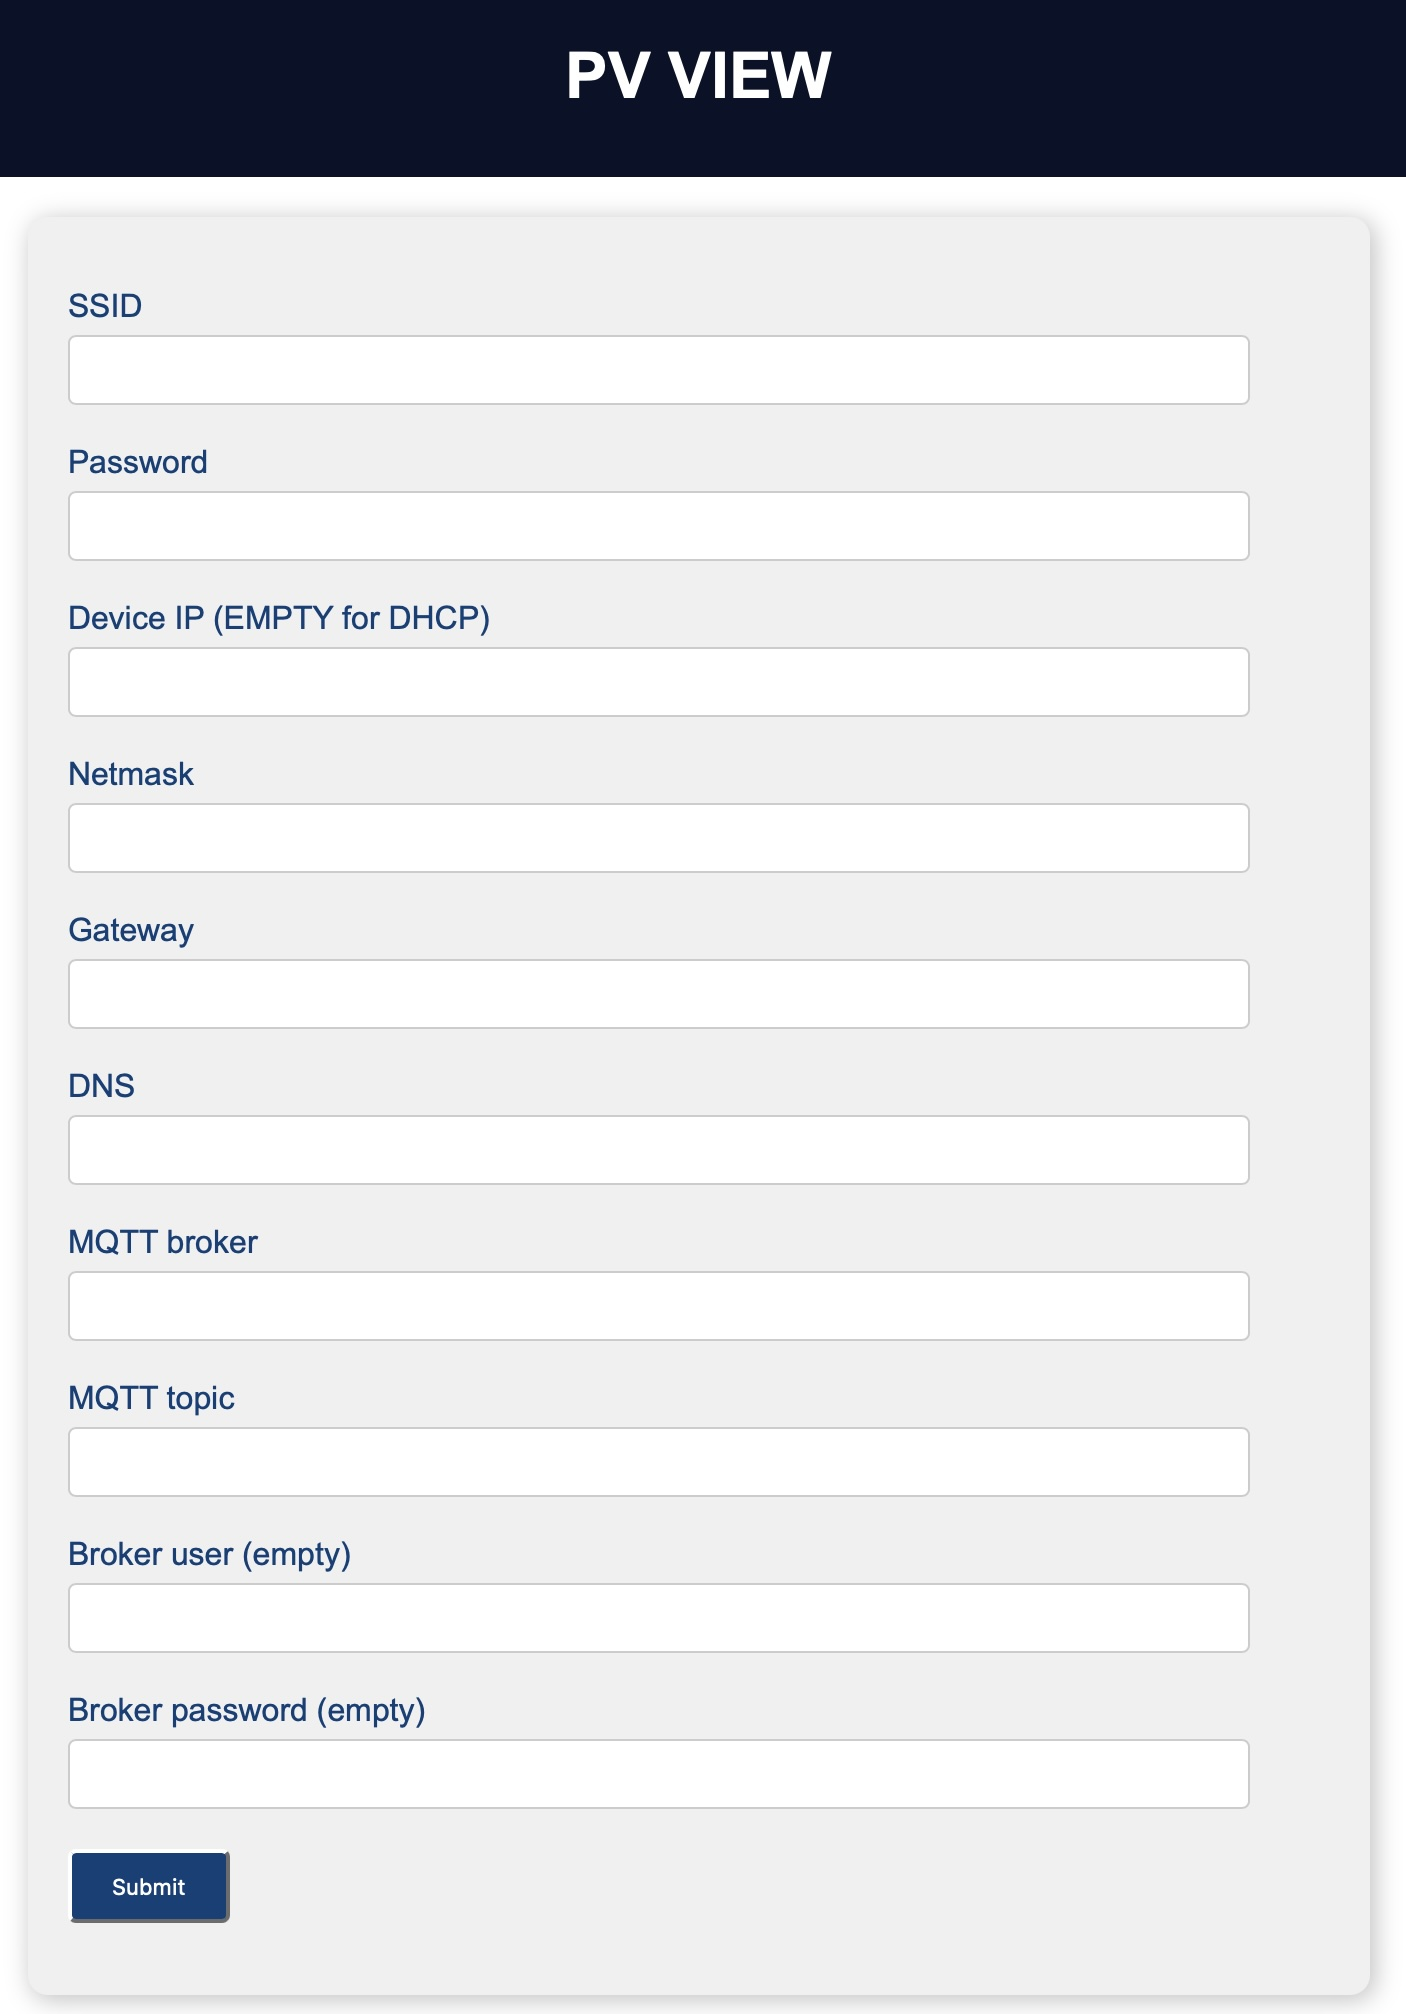
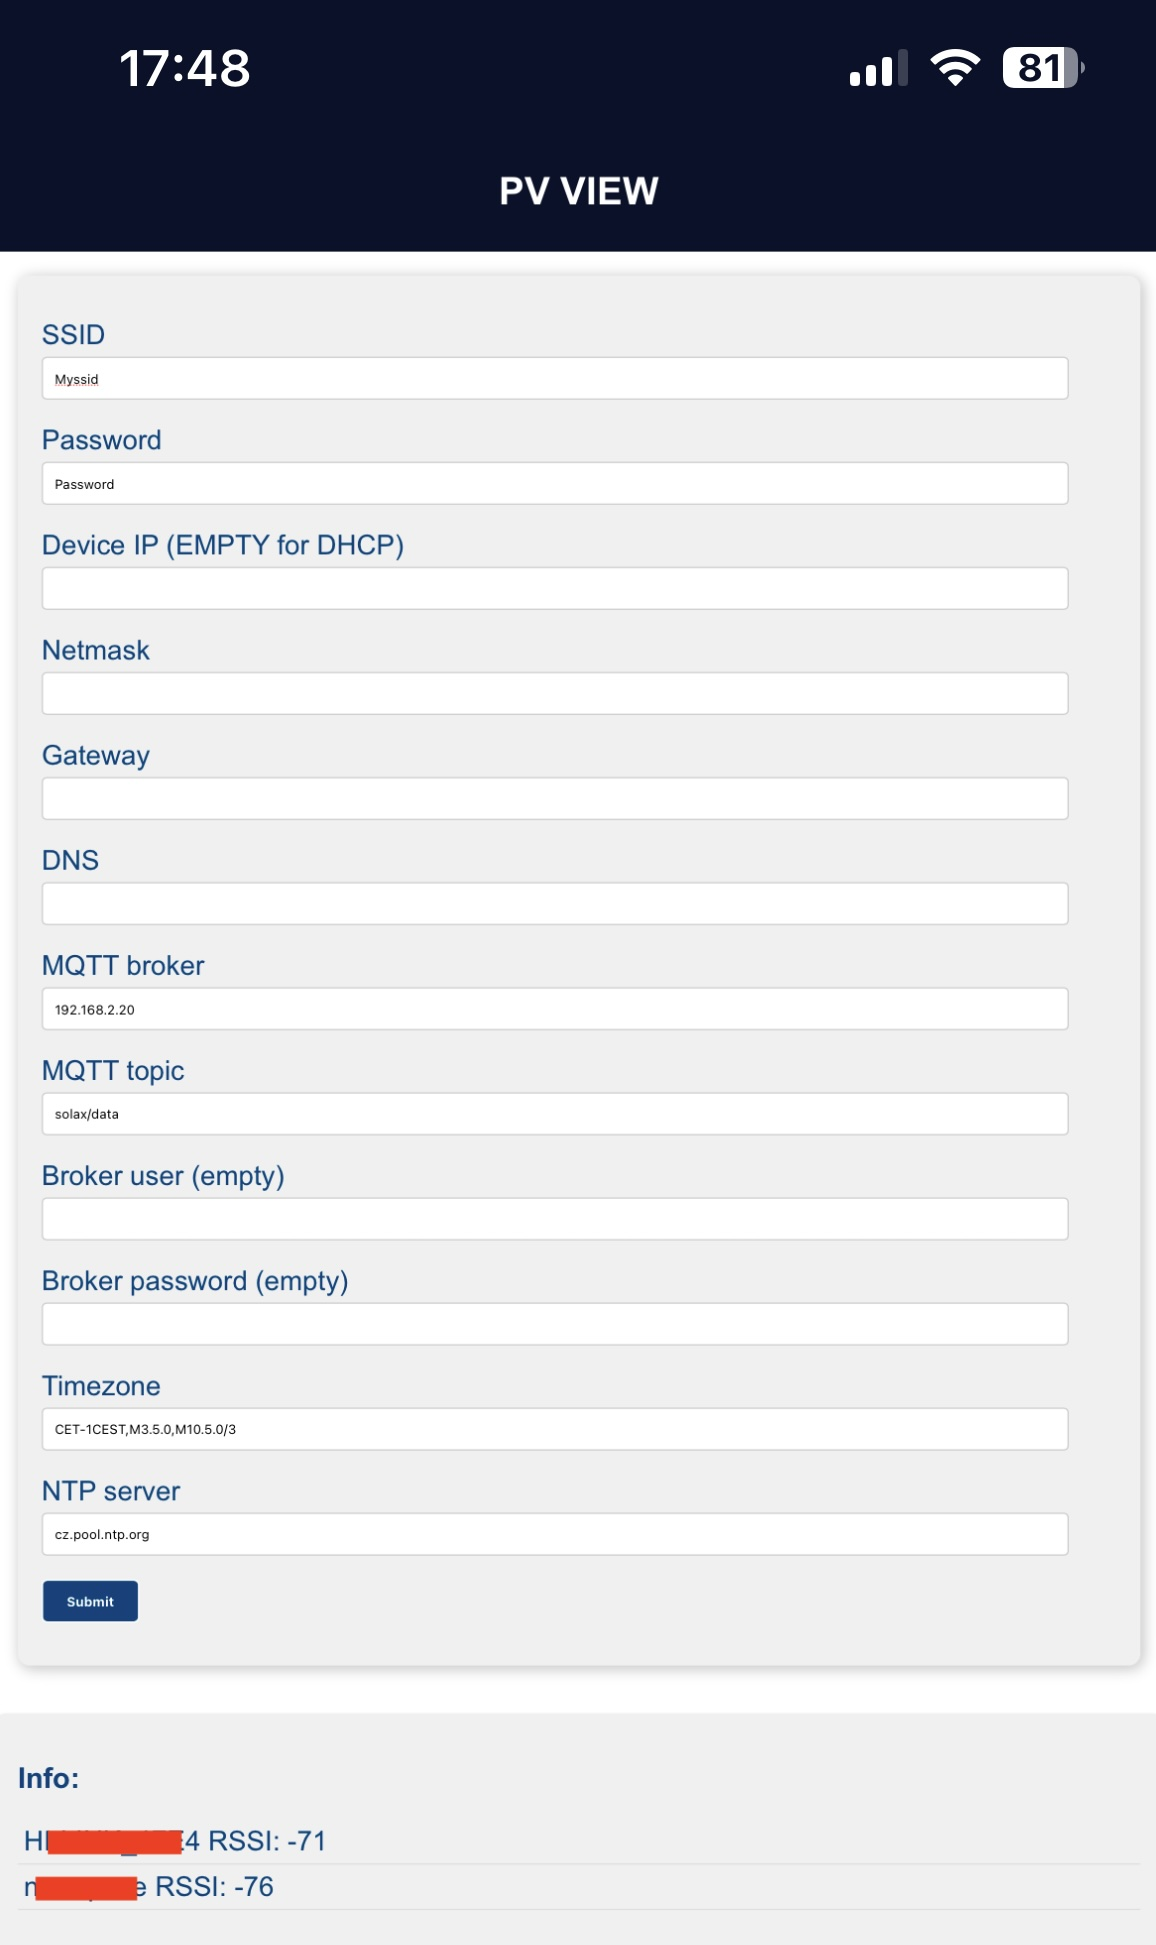
fixed snmp & timezone

diff --git a/main/time_task.cpp b/main/time_task.cpp
@@ -28,19 +28,27 @@ TimeTask::~TimeTask()
   done();
 }
 
+
 void TimeTask::initializeSNTP()
 {
+  KeyVal &kv = KeyVal::getInstance();
+	_timeserver = kv.readString(literals::kv_timeserver, literals::kv_def_timeserver);
+
   sntp_setoperatingmode(SNTP_OPMODE_POLL);
-  sntp_setservername(0, "cz.pool.ntp.org"); 
+  sntp_setservername(0,  _timeserver.c_str()); 
   sntp_init();
-  ESP_LOGI(LOG_TAG, "SNTP initialized. Time synchronization started.");
+  ESP_LOGI(LOG_TAG, "SNTP initialized. Time synchronization started. [%s]", _timeserver.c_str());
 }
 
-void TimeTask::updateTimeZone()
+void TimeTask::updateTimeZone(const char* tmz)
 { 
-  setenv("TZ", "CET-1CEST,M3.5.0,M10.5.0/3", 1);
-  tzset();
-  ESP_LOGI(LOG_TAG, "Time zone set to CET with daylight saving.");
+  if (tmz) {
+    setenv("TZ", tmz, 1);
+    tzset();
+    ESP_LOGI(LOG_TAG, "Time zone set to CET with daylight saving. [%s]", tmz);
+  } else {
+    ESP_LOGE(LOG_TAG, "Time zone - null");
+  }
 }
 
 bool  TimeTask::syncTime()
@@ -62,8 +70,11 @@ bool  TimeTask::syncTime()
   {
     time_t now = time(NULL);
     struct tm timeinfo;
+    KeyVal &kv = KeyVal::getInstance();
+    const auto zone = kv.readString(literals::kv_timezone, literals::kv_def_timezone);
+    updateTimeZone(zone.c_str());
     localtime_r(&now, &timeinfo);
-    ESP_LOGW(LOG_TAG, "Time synchronized: %s status=%d", asctime(&timeinfo),status);
+    ESP_LOGW(LOG_TAG, "Time synchronized: %s status=%d   zone [%s]", asctime(&timeinfo),status, zone.c_str());
     Application::getInstance()->getDisplayTask()->settingMsg(asctime(&timeinfo));
     if (_connectionManager)  _connectionManager->setTimeActive();
     rc = true;
@@ -101,6 +112,7 @@ void TimeTask::loop()
                 if (sntp_get_sync_status() == SNTP_SYNC_STATUS_RESET) 
                 {
                     initializeSNTP(); // Initialize SNTP only if it hasn't been started
+                    vTaskDelay(pdMS_TO_TICKS(1000));
                 }
                 initialSyncDone = true;
             }

diff --git a/main/web_task.cpp b/main/web_task.cpp
@@ -184,8 +184,8 @@ void WebTask::loop()
 					kv.writeString(literals::kv_passwdbr, Utils::urlDecode(HttpReqest::getValue(formData, literals::kv_passwdbr)).c_str());
 					kv.writeString(literals::kv_topic, Utils::urlDecode(HttpReqest::getValue(formData, literals::kv_topic)).c_str());
 
-					kv.writeString(literals::kv_timezone, Utils::urlDecode(HttpReqest::getValue(formData, literals::kv_topic)).c_str());
-					kv.writeString(literals::kv_timeserver, Utils::urlDecode(HttpReqest::getValue(formData, literals::kv_topic)).c_str());
+					kv.writeString(literals::kv_timezone, Utils::urlDecode(HttpReqest::getValue(formData, literals::kv_timezone)).c_str());
+					kv.writeString(literals::kv_timeserver, Utils::urlDecode(HttpReqest::getValue(formData, literals::kv_timeserver)).c_str());
 									
 					// Response
 					auto respContnetDialog = std::make_unique<ConentFile>(literals::kv_fl_finish);	

diff --git a/main/dashboard.h b/main/dashboard.h
@@ -430,13 +430,13 @@ public:
         {
             lv_led_set_color(_hdoLed, lv_color_hex(0x00FF00)); // Green for online
             lv_led_on(_hdoLed);                                // Turn the LED on
-            lv_obj_add_flag(_hdoLed, LV_OBJ_FLAG_HIDDEN);
+            lv_obj_clear_flag(_hdoLed, LV_OBJ_FLAG_HIDDEN);
         }
         else
         {
             lv_led_set_color(_hdoLed, lv_color_hex(0x00FF00)); 
             lv_led_off(_hdoLed);                                // Turn the LED OFF
-            lv_obj_clear_flag(_hdoLed, LV_OBJ_FLAG_HIDDEN);
+            lv_obj_add_flag(_hdoLed, LV_OBJ_FLAG_HIDDEN);
         }
     }
 

diff --git a/main/time_task.h b/main/time_task.h
@@ -21,7 +21,7 @@ public:
 	bool init(std::shared_ptr<ConnectionManager> connMgr, const char *name, UBaseType_t priority, const configSTACK_DEPTH_TYPE stackDepth);
 private:
 	void initializeSNTP();
-	void updateTimeZone();
+	void updateTimeZone(const char* tmz);
 	bool syncTime();
 protected:
 	void loop() override;
@@ -29,5 +29,6 @@ protected:
 private:
 	static constexpr const char *LOG_TAG = "TIME";
 	std::shared_ptr<ConnectionManager> _connectionManager;
+	std::string _timeserver;
 
 };

diff --git a/main/utils.h b/main/utils.h
@@ -126,4 +126,13 @@ public:
         return oss.str();
     }
 
+
+static std::string toHexString(const std::string &input) {
+    std::ostringstream hexStream;
+    for (unsigned char c : input) {
+        hexStream << std::hex << std::setw(2) << std::setfill('0') << static_cast<int>(c);
+    }
+    return hexStream.str();
+}
+
 };
